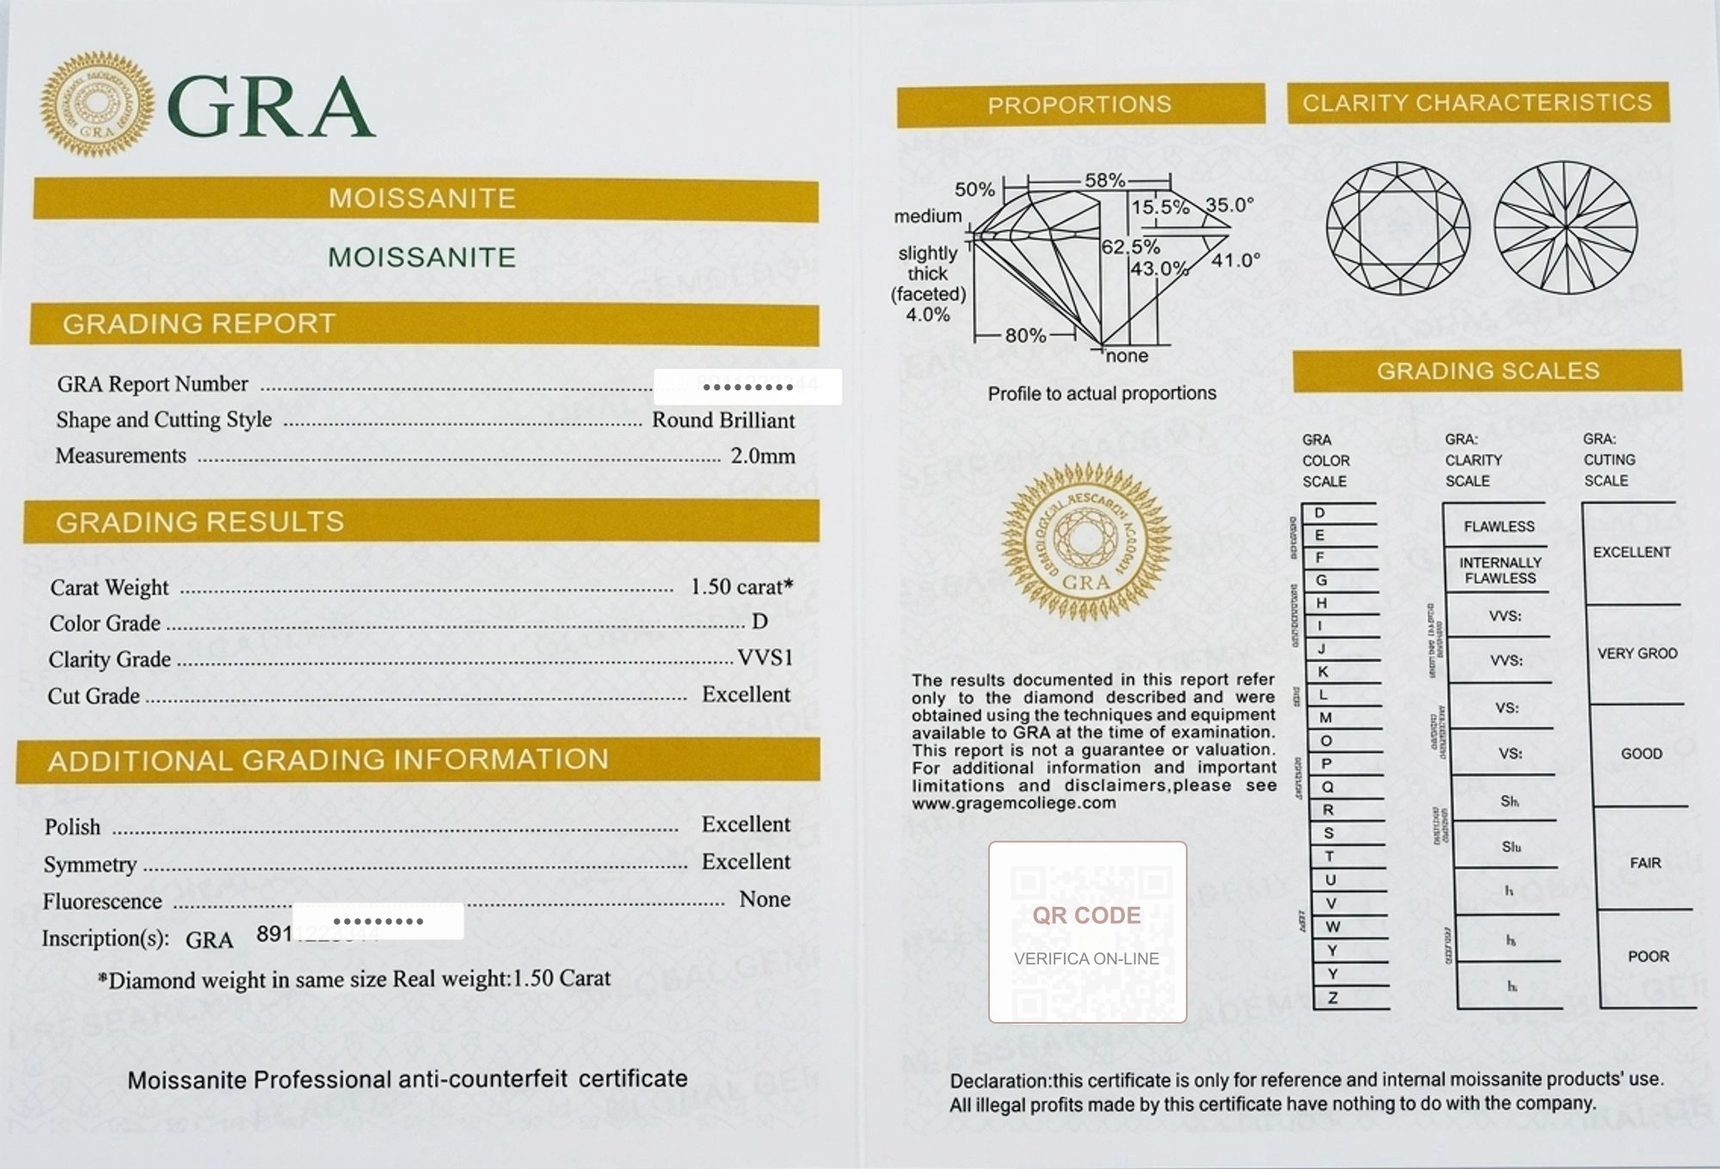
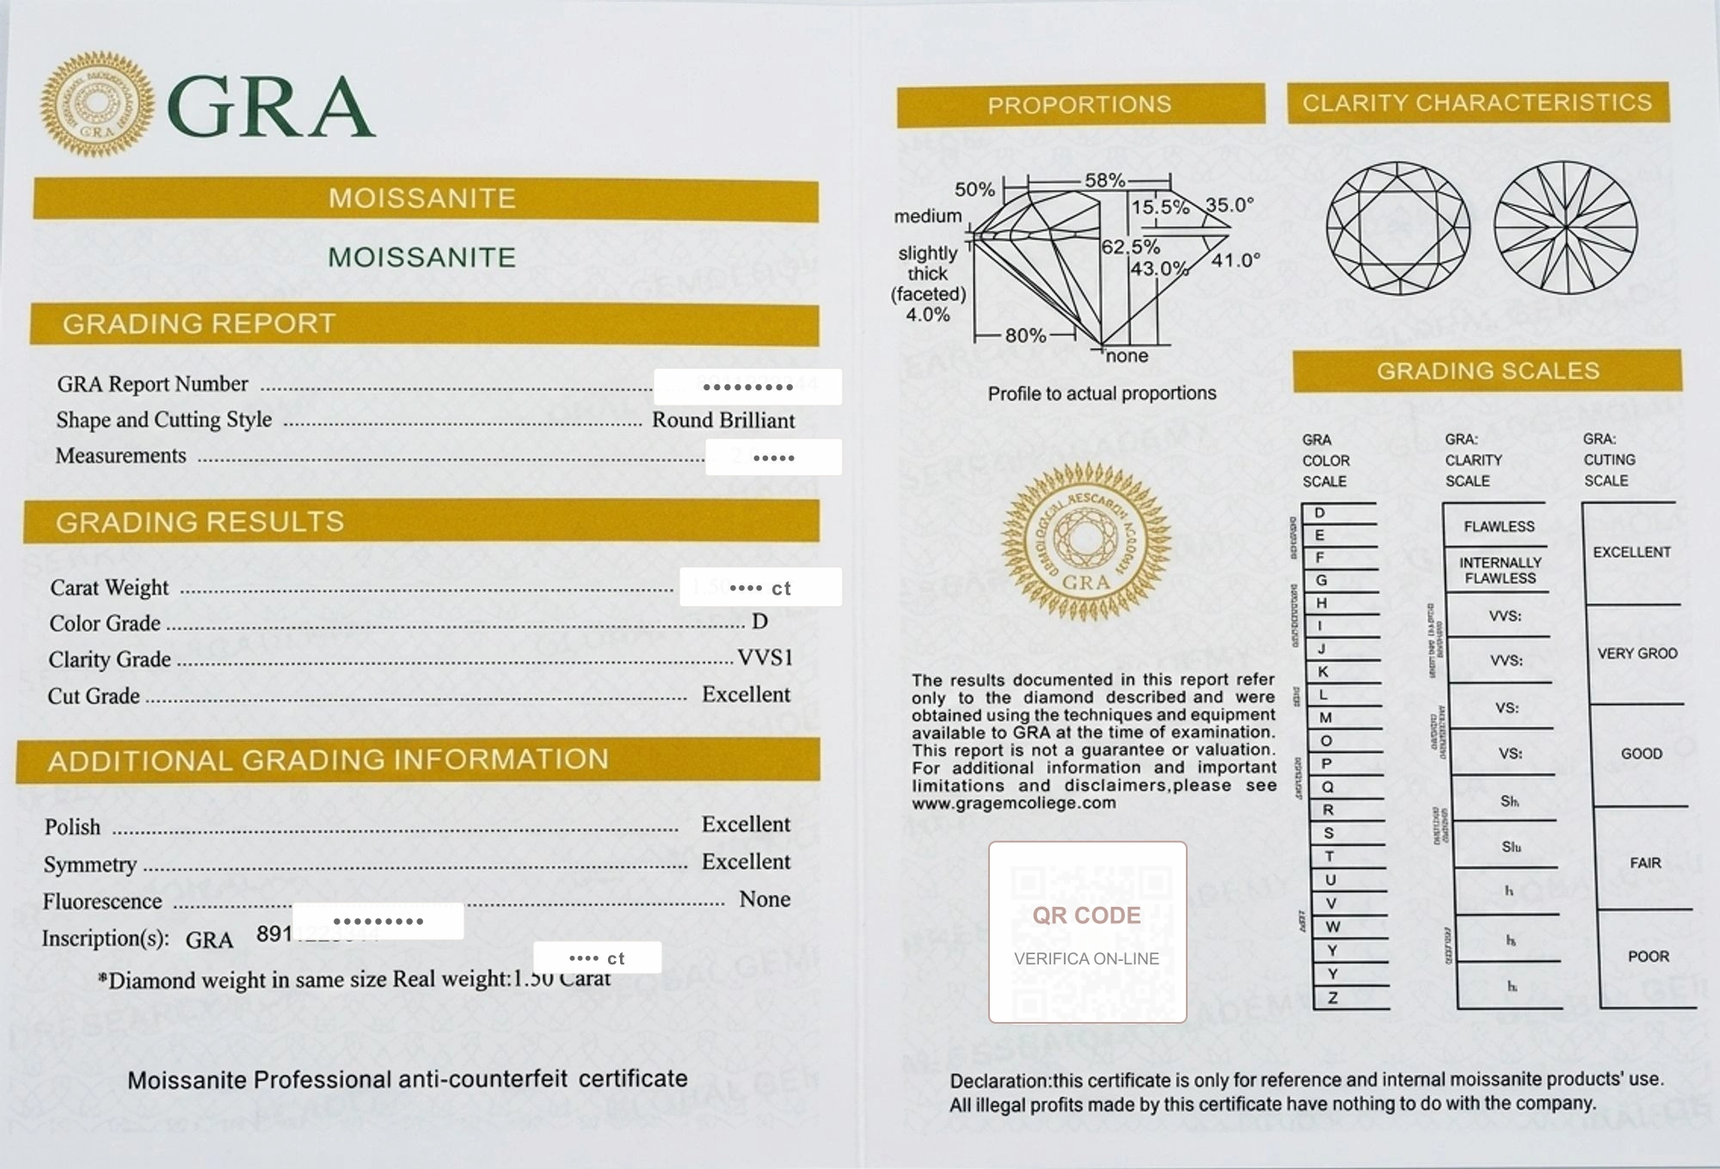
feat(pdp): implement dynamic multi-material certificate routing and universal carats/measurements privacy masks on GRA report

Changed region(s): [[0.372, 0.4632, 0.496, 0.525], [0.403, 0.3706, 0.496, 0.4324], [0.31, 0.8029, 0.403, 0.8338]]

diff --git a/components/ProductTrustBadges.tsx b/components/ProductTrustBadges.tsx
@@ -9,6 +9,7 @@ interface ProductTrustBadgesProps {
     gemstone?: string;
     materials?: string;
     description?: string;
+    color?: string;
   };
 }
 
@@ -16,20 +17,64 @@ export default function ProductTrustBadges({ product }: ProductTrustBadgesProps)
   const [isCertModalOpen, setIsCertModalOpen] = useState(false);
   const [activeGraTab, setActiveGraTab] = useState<'report' | 'card' | 'cover' | 'brand'>('report');
 
+  const nameLower = product.name?.toLowerCase() || '';
+  const gemstoneLower = product.gemstone?.toLowerCase() || '';
+  const materialsLower = product.materials?.toLowerCase() || '';
+  const descLower = product.description?.toLowerCase() || '';
+  const colorLower = product.color?.toLowerCase() || '';
+
+  // 1. Gemstone classifications
   const isPearl = Boolean(
-    (product.gemstone?.toLowerCase().includes('perl') || 
-     product.name.toLowerCase().includes('perl') || 
-     product.materials?.toLowerCase().includes('perl'))
+    gemstoneLower.includes('perl') || 
+    nameLower.includes('perl') || 
+    materialsLower.includes('perl')
   );
 
   const isMoissanite = Boolean(
-    (product.gemstone?.toLowerCase().includes('moissanite') || 
-     product.gemstone?.toLowerCase().includes('vvs1') || 
-     product.gemstone?.toLowerCase().includes('d-color') ||
-     product.name.toLowerCase().includes('moissanite') ||
-     product.description?.toLowerCase()?.includes('moissanite') ||
-     (!isPearl && product.gemstone && product.gemstone !== '-'))
+    !isPearl && (
+      gemstoneLower.includes('moissanite') || 
+      gemstoneLower.includes('vvs1') || 
+      gemstoneLower.includes('d-color') ||
+      nameLower.includes('moissanite') ||
+      descLower.includes('moissanite') ||
+      (product.gemstone && product.gemstone !== '-' && !gemstoneLower.includes('zircon'))
+    )
   );
+
+  // 2. Finish / Plating classifications
+  const isGold = Boolean(
+    materialsLower.includes('oro') || 
+    materialsLower.includes('18k') || 
+    materialsLower.includes('gold') || 
+    materialsLower.includes('giallo') ||
+    nameLower.includes('oro') || 
+    nameLower.includes('gold') ||
+    colorLower.includes('oro') ||
+    colorLower.includes('giallo') ||
+    isPearl // All pearls are 18K Gold plated
+  );
+
+  const isRhodium = Boolean(
+    !isGold && (
+      materialsLower.includes('rodio') || 
+      materialsLower.includes('rhodium') || 
+      materialsLower.includes('argento') || 
+      materialsLower.includes('silver') || 
+      materialsLower.includes('bianco') ||
+      colorLower.includes('argento') ||
+      colorLower.includes('silver') ||
+      colorLower.includes('bianco')
+    )
+  );
+
+  // Select exact brand certificate image based on product material
+  const brandCertImage = isPearl
+    ? '/Brand/certificato_perle_card_clean.webp'
+    : isMoissanite
+    ? isGold
+      ? '/Brand/certificato_moissanite_oro18k.webp'
+      : '/Brand/certificato_moissanite_rodio.webp'
+    : '/Brand/certificato_argento925.webp';
 
   return (
     <>
@@ -43,7 +88,7 @@ export default function ProductTrustBadges({ product }: ProductTrustBadgesProps)
             Doppio<br />Scudo
           </span>
           <span className="text-[9px] text-gray-500 font-light leading-snug">
-            {isPearl ? "Oro 18K • 1.0µm" : "18K & Rodio"}
+            {isPearl || isGold ? "Oro 18K • 1.0µm" : "Rodio • E-Coating"}
           </span>
         </div>
 
@@ -96,7 +141,7 @@ export default function ProductTrustBadges({ product }: ProductTrustBadgesProps)
               {isPearl 
                 ? "Certificato Perle Naturali d'Acqua Dolce & Argento 925" 
                 : isMoissanite 
-                ? "Libretto Gemmologico GRA + Card di Garanzia & Certificato Isabel Pepe" 
+                ? `Libretto Gemmologico GRA + Card di Garanzia & Certificato ${isGold ? 'Oro 18K' : 'Rodio'}` 
                 : "Certificato di Autenticità & Metalli Nobili 925"
               }
             </p>
@@ -126,7 +171,7 @@ export default function ProductTrustBadges({ product }: ProductTrustBadgesProps)
             onClick={(e) => e.stopPropagation()}
             onContextMenu={(e) => e.preventDefault()}
           >
-            {/* Close Button Fisso e Spaziato */}
+            {/* Close Button */}
             <button
               onClick={() => setIsCertModalOpen(false)}
               className="absolute top-3.5 right-3.5 z-40 w-8 h-8 rounded-full bg-gray-100 hover:bg-gray-200 text-gray-700 flex items-center justify-center transition-colors cursor-pointer shadow-sm"
@@ -135,22 +180,22 @@ export default function ProductTrustBadges({ product }: ProductTrustBadgesProps)
               <X size={16} />
             </button>
 
-            {/* Header Modal - Spaziatura Generosa e Testo Compatto Anti-Taglio */}
+            {/* Header Modal */}
             <div className="text-center mb-3 pr-8 pl-8 pt-1 shrink-0">
               <span className="text-[10px] uppercase tracking-[0.25em] text-[#C0A09A] font-semibold block mb-0.5">
                 {isMoissanite ? "Certificazione Gemmologica & Garanzia di Lusso" : "Documento Ufficiale Isabel Pepe"}
               </span>
-              <h3 className="font-serif text-base sm:text-lg text-gray-900 tracking-wide font-medium leading-snug">
+              <h3 className="font-serif text-base sm:text-lg text-gray-900 tracking-wide font-medium leading-tight">
                 {isPearl 
                   ? "Certificato Perle Naturali d'Acqua Dolce" 
                   : isMoissanite 
-                  ? "Certificato Ufficiale GRA & Garanzia Isabel Pepe" 
+                  ? `Certificato Ufficiale GRA & Garanzia ${isGold ? 'Oro 18K' : 'Rodio'}` 
                   : "Certificato di Autenticità & Garanzia 24 Mesi"
                 }
               </h3>
             </div>
 
-            {/* Tabs di Navigazione Permanente (Sempre Visibili) */}
+            {/* Tabs di Navigazione Permanente (Solo Moissanite) */}
             {isMoissanite && (
               <div className="flex items-center justify-center gap-1 sm:gap-1.5 mb-3 p-1 bg-[#FAF8F5] rounded-xl border border-[#F0E6E1] shrink-0 overflow-x-auto">
                 <button
@@ -204,10 +249,10 @@ export default function ProductTrustBadges({ product }: ProductTrustBadgesProps)
               </div>
             )}
 
-            {/* Contenuto Scorrevole con Altezza Ottimizzata */}
+            {/* Contenuto Scorrevole */}
             <div className="flex-1 overflow-y-auto space-y-3 pr-1">
               
-              {/* Immagine Documento Raddrizzata e Rettilinea con Protezione Anti-Download */}
+              {/* Immagine Documento Raddrizzata con Protezione Anti-Download */}
               <div 
                 className="relative rounded-xl overflow-hidden shadow-sm border border-[#F0E6E1] bg-[#FAF8F5] select-none flex items-center justify-center p-2 min-h-[180px]"
                 onContextMenu={(e) => e.preventDefault()}
@@ -228,8 +273,8 @@ export default function ProductTrustBadges({ product }: ProductTrustBadgesProps)
                         ? '/Brand/gra_card_privacy.webp'
                         : activeGraTab === 'cover'
                         ? '/Brand/gra_libretto_esterno.webp'
-                        : '/Brand/certificato_metalli_isabel_clean.webp'
-                      : '/Brand/certificato_perle_card_clean.webp'
+                        : brandCertImage
+                      : brandCertImage
                   }
                   alt={isMoissanite ? "Documentazione Ufficiale GRA Moissanite" : "Certificato di Autenticità Isabel Pepe"}
                   className="w-full h-auto max-h-[230px] sm:max-h-[270px] object-contain pointer-events-none select-none user-select-none mx-auto rounded-lg shadow-sm"
@@ -245,10 +290,10 @@ export default function ProductTrustBadges({ product }: ProductTrustBadgesProps)
                   <Lock size={15} className="text-[#C0A09A] shrink-0 mt-0.5" />
                   <div className="text-[11px] text-gray-700 leading-relaxed">
                     <strong className="text-gray-900 font-semibold block mb-0.5">
-                      Numero di Serie & QR Code Univoci per Ogni Singola Pietra
+                      Caratura, Numero di Serie &amp; QR Code Univoci per Ogni Singola Pietra
                     </strong>
-                    In questa anteprima il codice seriale e il QR Code sono oscurati a tutela della privacy. 
-                    Ogni gioiello in Moissanite acquistato include la propria <strong>micro-incisione laser sulla cintura della pietra</strong> con matricola dedicata, verificabile online sul database ufficiale GRA.
+                    In questa anteprima caratura, misure, codice seriale e QR Code sono oscurati a tutela della privacy. 
+                    Ogni gioiello in Moissanite acquistato include il proprio certificato nominale e la <strong>micro-incisione laser sulla cintura della pietra</strong> con matricola dedicata, verificabile online sul database ufficiale GRA.
                   </div>
                 </div>
               )}
@@ -275,7 +320,7 @@ export default function ProductTrustBadges({ product }: ProductTrustBadgesProps)
                       <CheckCircle2 size={15} className="text-[#C0A09A] shrink-0 mt-0.5" />
                       <span>
                         <strong className="text-gray-900 font-medium">3. Certificato Ufficiale Isabel Pepe: </strong>
-                        Attesta la fusione in 100% Argento 925 Nichel-Free, placcatura Oro 18K/Rodio e Nano-Sigillo E-Coating.
+                        Attesta la fusione in 100% Argento 925 Nichel-Free, placcatura {isGold ? 'Oro 18K (1.0 Micron)' : 'Rodio Puro a specchio'} e Nano-Sigillo E-Coating.
                       </span>
                     </div>
                   </>
@@ -298,7 +343,7 @@ export default function ProductTrustBadges({ product }: ProductTrustBadgesProps)
                     <div className="flex items-start gap-2">
                       <CheckCircle2 size={15} className="text-[#C0A09A] shrink-0 mt-0.5" />
                       <span>
-                        <strong className="text-gray-900 font-medium">Placcatura Oro 18K & E-Coating: </strong>
+                        <strong className="text-gray-900 font-medium">Placcatura Oro 18K &amp; E-Coating: </strong>
                         Spessore luxury da 1.0 Micron con scudo molecolare protettivo anti-ossidazione.
                       </span>
                     </div>

diff --git a/scripts/generate_certificate_variants.ts b/scripts/generate_certificate_variants.ts
@@ -1,0 +1,138 @@
+import sharp from 'sharp';
+import fs from 'fs';
+import path from 'path';
+
+async function generateAllCertificateVariants() {
+  console.log('Generating all dedicated Isabel Pepe Certificate variants...');
+
+  const masterPath = path.resolve(process.cwd(), 'C:/Users/mario/.gemini/antigravity/brain/c179de7c-1904-44ee-afff-b91f47bf4b2e/certificato_moissanite_oro18k_raw_1787059457283.jpg');
+  const masterMeta = await sharp(masterPath).metadata();
+  const mw = masterMeta.width || 1200;
+  const mh = masterMeta.height || 800;
+
+  // Extract clean rectangular card without surrounding drop shadow
+  const cardLeft = Math.round(mw * 0.118);
+  const cardTop = Math.round(mh * 0.102);
+  const cardWidth = Math.round(mw * 0.764);
+  const cardHeight = Math.round(mh * 0.796);
+
+  const baseCard = await sharp(masterPath)
+    .extract({ left: cardLeft, top: cardTop, width: cardWidth, height: cardHeight })
+    .resize(1600, 1040, { fit: 'fill' })
+    .toBuffer();
+
+  const w = 1600;
+  const h = 1040;
+
+  // 1. Variant: Moissanite & Oro 18K
+  // Uses the raw text already on the master card or cleanly rendered
+  await sharp(baseCard)
+    .webp({ quality: 95 })
+    .toFile(path.resolve(process.cwd(), 'public/Brand/certificato_moissanite_oro18k.webp'));
+  await sharp(baseCard)
+    .jpeg({ quality: 95 })
+    .toFile(path.resolve(process.cwd(), 'public/Brand/certificato_moissanite_oro18k.jpg'));
+
+  // 2. Variant: Moissanite & Rodio Puro
+  // Cover title and table lines with exact color matched blush background patch and crisp vector text
+  const rodioOverlaySvg = `
+  <svg width="${w}" height="${h}" xmlns="http://www.w3.org/2000/svg">
+    <!-- Clean patch over title and specifications -->
+    <rect x="${w * 0.10}" y="${h * 0.50}" width="${w * 0.80}" height="${h * 0.40}" fill="#F4EAE4" />
+
+    <!-- Title -->
+    <text x="${w * 0.50}" y="${h * 0.54}" font-family="'Cinzel', 'Playfair Display', Georgia, serif" font-size="28" font-weight="600" letter-spacing="2" fill="#5C4033" text-anchor="middle">
+      CERTIFICATO DI AUTENTICITÀ &amp; QUALITÀ — MOISSANITE &amp; RODIO
+    </text>
+
+    <!-- Table content -->
+    <g font-family="'Helvetica Neue', Arial, sans-serif" font-size="24" fill="#3D312A">
+      <!-- Row 1: Gemma -->
+      <text x="${w * 0.22}" y="${h * 0.61}" font-weight="500" fill="#7A5848">Gemma:</text>
+      <text x="${w * 0.38}" y="${h * 0.61}" font-weight="400">Moissanite D-Color VVS1 (Certificato GRA Incluso)</text>
+
+      <!-- Row 2: Metallo Base -->
+      <text x="${w * 0.22}" y="${h * 0.66}" font-weight="500" fill="#7A5848">Metallo Base:</text>
+      <text x="${w * 0.38}" y="${h * 0.66}" font-weight="400">Argento Sterling 925 Nichel-Free</text>
+
+      <!-- Row 3: Placcatura -->
+      <text x="${w * 0.22}" y="${h * 0.71}" font-weight="500" fill="#7A5848">Finitura:</text>
+      <text x="${w * 0.38}" y="${h * 0.71}" font-weight="400">Finitura Rodio Puro a Specchio</text>
+
+      <!-- Row 4: Protezione -->
+      <text x="${w * 0.22}" y="${h * 0.76}" font-weight="500" fill="#7A5848">Protezione:</text>
+      <text x="${w * 0.38}" y="${h * 0.76}" font-weight="400">Nano-Sigillo E-Coating</text>
+
+      <!-- Row 5: Garanzia -->
+      <text x="${w * 0.22}" y="${h * 0.81}" font-weight="500" fill="#7A5848">Garanzia:</text>
+      <text x="${w * 0.38}" y="${h * 0.81}" font-weight="400">Conformità Legale 24 Mesi • Standard UE</text>
+
+      <!-- Row 6: ID Certificato -->
+      <text x="${w * 0.22}" y="${h * 0.86}" font-weight="500" fill="#7A5848">ID Certificato:</text>
+      <text x="${w * 0.38}" y="${h * 0.86}" font-weight="400">IP-MOISS-ROD-2026</text>
+    </g>
+  </svg>
+  `;
+
+  await sharp(baseCard)
+    .composite([{ input: Buffer.from(rodioOverlaySvg), top: 0, left: 0 }])
+    .webp({ quality: 95 })
+    .toFile(path.resolve(process.cwd(), 'public/Brand/certificato_moissanite_rodio.webp'));
+  await sharp(baseCard)
+    .composite([{ input: Buffer.from(rodioOverlaySvg), top: 0, left: 0 }])
+    .jpeg({ quality: 95 })
+    .toFile(path.resolve(process.cwd(), 'public/Brand/certificato_moissanite_rodio.jpg'));
+
+  // 3. Variant: Argento 925 Classico (Demi-Fine / Pave)
+  const argentoOverlaySvg = `
+  <svg width="${w}" height="${h}" xmlns="http://www.w3.org/2000/svg">
+    <!-- Clean patch over title and specifications -->
+    <rect x="${w * 0.10}" y="${h * 0.50}" width="${w * 0.80}" height="${h * 0.40}" fill="#F4EAE4" />
+
+    <!-- Title -->
+    <text x="${w * 0.50}" y="${h * 0.54}" font-family="'Cinzel', 'Playfair Display', Georgia, serif" font-size="28" font-weight="600" letter-spacing="2" fill="#5C4033" text-anchor="middle">
+      CERTIFICATO DI AUTENTICITÀ &amp; QUALITÀ — ARGENTO STERLING 925
+    </text>
+
+    <!-- Table content -->
+    <g font-family="'Helvetica Neue', Arial, sans-serif" font-size="24" fill="#3D312A">
+      <!-- Row 1: Metallo Base -->
+      <text x="${w * 0.22}" y="${h * 0.61}" font-weight="500" fill="#7A5848">Metallo Base:</text>
+      <text x="${w * 0.38}" y="${h * 0.61}" font-weight="400">Argento Sterling 925 Nichel-Free (Punzone S925)</text>
+
+      <!-- Row 2: Finitura / Placcatura -->
+      <text x="${w * 0.22}" y="${h * 0.66}" font-weight="500" fill="#7A5848">Placcatura:</text>
+      <text x="${w * 0.38}" y="${h * 0.66}" font-weight="400">Oro 18K (1.0 Micron) / Rodio Puro a Specchio</text>
+
+      <!-- Row 3: Protezione -->
+      <text x="${w * 0.22}" y="${h * 0.71}" font-weight="500" fill="#7A5848">Protezione:</text>
+      <text x="${w * 0.38}" y="${h * 0.71}" font-weight="400">Nano-Sigillo E-Coating Anti-Ossidazione</text>
+
+      <!-- Row 4: Punzone & Sigillo -->
+      <text x="${w * 0.22}" y="${h * 0.76}" font-weight="500" fill="#7A5848">Sigillo:</text>
+      <text x="${w * 0.38}" y="${h * 0.76}" font-weight="400">Marchio Legale di Fabbrica &amp; Monogramma IP</text>
+
+      <!-- Row 5: Garanzia -->
+      <text x="${w * 0.22}" y="${h * 0.81}" font-weight="500" fill="#7A5848">Garanzia:</text>
+      <text x="${w * 0.38}" y="${h * 0.81}" font-weight="400">Conformità Legale 24 Mesi • Standard REACH</text>
+
+      <!-- Row 6: ID Certificato -->
+      <text x="${w * 0.22}" y="${h * 0.86}" font-weight="500" fill="#7A5848">ID Certificato:</text>
+      <text x="${w * 0.38}" y="${h * 0.86}" font-weight="400">IP-S925-CERT-2026</text>
+    </g>
+  </svg>
+  `;
+
+  await sharp(baseCard)
+    .composite([{ input: Buffer.from(argentoOverlaySvg), top: 0, left: 0 }])
+    .webp({ quality: 95 })
+    .toFile(path.resolve(process.cwd(), 'public/Brand/certificato_argento925.webp'));
+  await sharp(baseCard)
+    .composite([{ input: Buffer.from(argentoOverlaySvg), top: 0, left: 0 }])
+    .jpeg({ quality: 95 })
+    .toFile(path.resolve(process.cwd(), 'public/Brand/certificato_argento925.jpg'));
+
+  console.log('✅ All 4 Certificate variants generated and exported successfully!');
+}
+
+generateAllCertificateVariants().catch(console.error);

diff --git a/scripts/mask_gra_carats.ts b/scripts/mask_gra_carats.ts
@@ -1,0 +1,67 @@
+import sharp from 'sharp';
+import fs from 'fs';
+import path from 'path';
+
+async function processInternalGraWithCaratsMask() {
+  console.log('Applying frosted privacy masks over Carats, Measurements, Serial and QR on GRA internal report...');
+
+  const intSrc = path.resolve(process.cwd(), 'C:/Users/mario/.gemini/antigravity/brain/c179de7c-1904-44ee-afff-b91f47bf4b2e/gra_report_interno_perfetto_1787056609531.jpg');
+  const intMeta = await sharp(intSrc).metadata();
+  const iw = intMeta.width || 2000;
+  const ih = intMeta.height || 1400;
+
+  const intLeft = Math.round(iw * 0.050);
+  const intTop = Math.round(ih * 0.022);
+  const intWidth = Math.round(iw * 0.898);
+  const intHeight = Math.round(ih * 0.950);
+
+  const croppedIntBuffer = await sharp(intSrc)
+    .extract({ left: intLeft, top: intTop, width: intWidth, height: intHeight })
+    .resize(2000, 1360, { fit: 'fill' })
+    .toBuffer();
+
+  const w = 2000;
+  const h = 1360;
+  const intOverlaySvg = `
+  <svg width="${w}" height="${h}" xmlns="http://www.w3.org/2000/svg">
+    <!-- 1. Mask over Report Number top-left -->
+    <rect x="${w * 0.380}" y="${h * 0.315}" width="${w * 0.110}" height="${h * 0.032}" fill="#FFFFFF" opacity="0.97" rx="4" stroke="#E8E2DA" stroke-width="1" />
+    <text x="${w * 0.435}" y="${h * 0.338}" font-family="Arial, sans-serif" font-size="${h * 0.019}" letter-spacing="3" fill="#666666" font-weight="bold" text-anchor="middle">•••••••••</text>
+
+    <!-- 2. Mask over Measurements (e.g. 2.0mm) -->
+    <rect x="${w * 0.410}" y="${h * 0.375}" width="${w * 0.080}" height="${h * 0.032}" fill="#FFFFFF" opacity="0.97" rx="4" stroke="#E8E2DA" stroke-width="1" />
+    <text x="${w * 0.450}" y="${h * 0.398}" font-family="Arial, sans-serif" font-size="${h * 0.017}" letter-spacing="2" fill="#666666" font-weight="bold" text-anchor="middle">•••••</text>
+
+    <!-- 3. Mask over Carat Weight (e.g. 1.50 carat*) -->
+    <rect x="${w * 0.395}" y="${h * 0.485}" width="${w * 0.095}" height="${h * 0.034}" fill="#FFFFFF" opacity="0.97" rx="4" stroke="#E8E2DA" stroke-width="1" />
+    <text x="${w * 0.442}" y="${h * 0.509}" font-family="Arial, sans-serif" font-size="${h * 0.017}" letter-spacing="2" fill="#666666" font-weight="bold" text-anchor="middle">•••• ct</text>
+
+    <!-- 4. Mask over Laser Inscription bottom-left -->
+    <rect x="${w * 0.170}" y="${h * 0.772}" width="${w * 0.100}" height="${h * 0.032}" fill="#FFFFFF" opacity="0.97" rx="4" stroke="#E8E2DA" stroke-width="1" />
+    <text x="${w * 0.220}" y="${h * 0.795}" font-family="Arial, sans-serif" font-size="${h * 0.019}" letter-spacing="3" fill="#666666" font-weight="bold" text-anchor="middle">•••••••••</text>
+
+    <!-- 5. Mask over Real Weight bottom-left (e.g. Real weight:1.50 Carat) -->
+    <rect x="${w * 0.310}" y="${h * 0.805}" width="${w * 0.075}" height="${h * 0.028}" fill="#FFFFFF" opacity="0.97" rx="4" stroke="#E8E2DA" stroke-width="1" />
+    <text x="${w * 0.347}" y="${h * 0.825}" font-family="Arial, sans-serif" font-size="${h * 0.015}" letter-spacing="2" fill="#666666" font-weight="bold" text-anchor="middle">•••• ct</text>
+
+    <!-- 6. Mask over QR Code bottom-right -->
+    <rect x="${w * 0.575}" y="${h * 0.72}" width="${w * 0.115}" height="${h * 0.155}" fill="#FFFFFF" opacity="0.97" rx="8" stroke="#C0A09A" stroke-width="2" />
+    <text x="${w * 0.632}" y="${h * 0.79}" font-family="Arial, sans-serif" font-size="${h * 0.020}" fill="#C0A09A" font-weight="bold" text-anchor="middle">QR CODE</text>
+    <text x="${w * 0.632}" y="${h * 0.825}" font-family="Arial, sans-serif" font-size="${h * 0.014}" fill="#888888" text-anchor="middle">VERIFICA ON-LINE</text>
+  </svg>
+  `;
+
+  await sharp(croppedIntBuffer)
+    .composite([{ input: Buffer.from(intOverlaySvg), top: 0, left: 0 }])
+    .webp({ quality: 95 })
+    .toFile(path.resolve(process.cwd(), 'public/Brand/gra_report_interno_privacy.webp'));
+
+  await sharp(croppedIntBuffer)
+    .composite([{ input: Buffer.from(intOverlaySvg), top: 0, left: 0 }])
+    .jpeg({ quality: 95 })
+    .toFile(path.resolve(process.cwd(), 'public/Brand/gra_report_interno_privacy.jpg'));
+
+  console.log('✅ GRA internal report updated with universal Carats & Measurements privacy masks!');
+}
+
+processInternalGraWithCaratsMask().catch(console.error);
